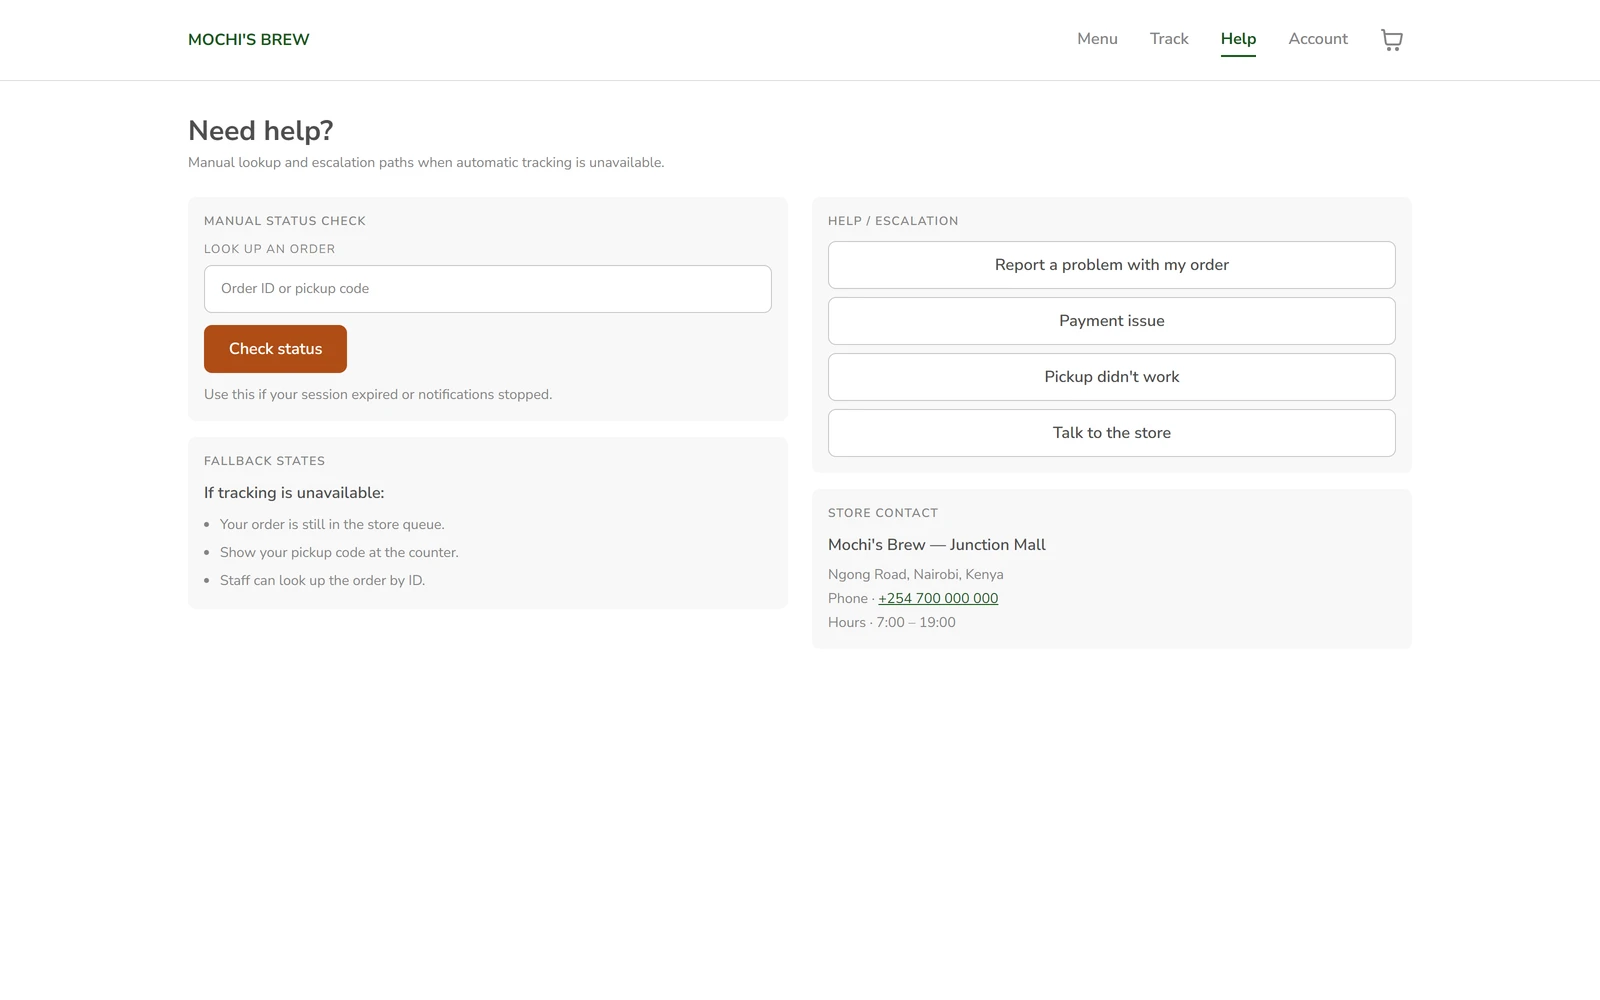
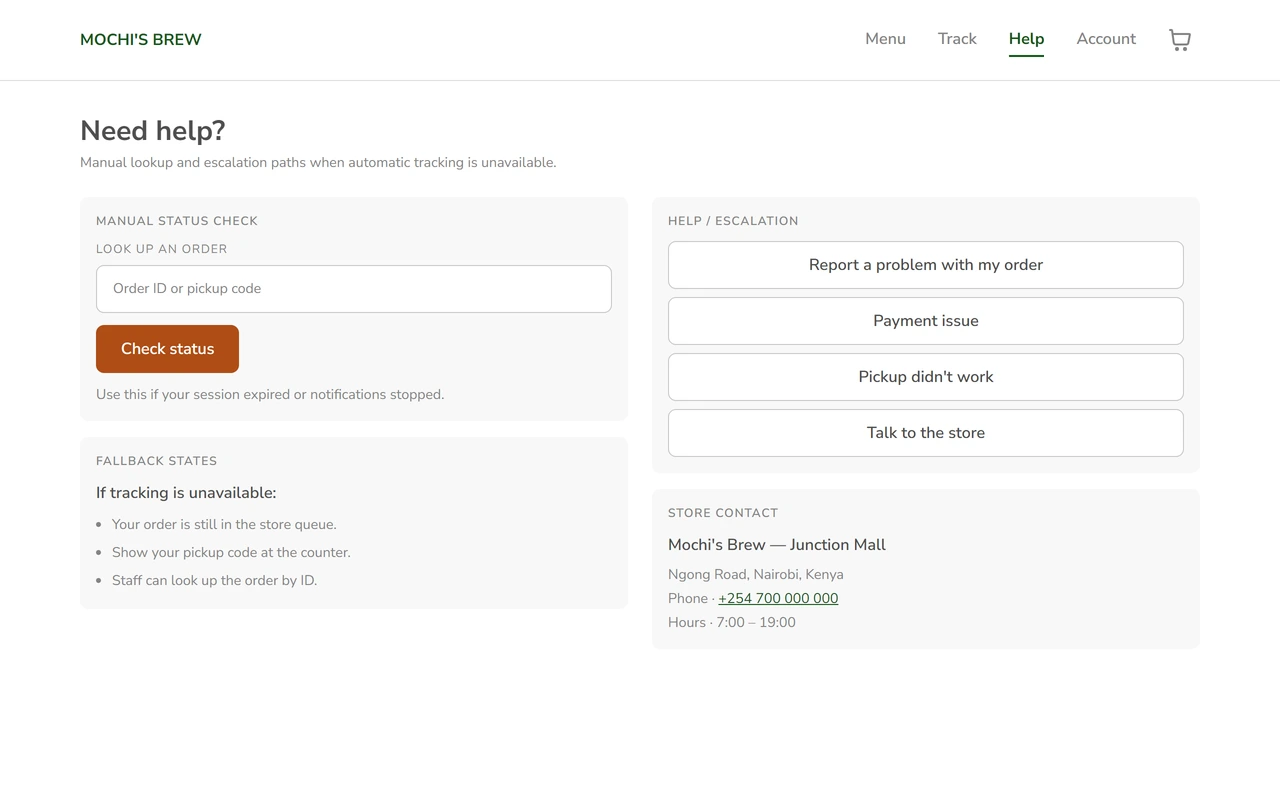
Show a screen at a size it can be read at
The flow screens were captured at 1600 and shown at 1000, so a 14px label
arrived as 9px. They are recaptured at the size they are displayed at, and the
inset is tightened, so the ground reads as a border rather than a margin.

Frame takes a ratio and the side it measures from. A landscape frame fills its
column and lets the cap trim its height; a portrait one is the other way
round, which is what the phone flow needed to stop being a phone lying down in
a landscape box.

A board taller than its card is no longer shrunk until it cannot be read. It
fills the width and pans instead: a beat at the top, a slow linear travel down
at reading pace, a beat at the foot, then the next board.

diff --git a/src/routes/work.mochis.tsx b/src/routes/work.mochis.tsx
@@ -93,87 +93,24 @@ const learnt = [
 
 /* The flow as charted: home, through the gate, to the menu and the product,
    reviewed, and only then the guest choice that sits immediately before
-   payment. Tracking follows payment, and support follows tracking. */
+   payment. Tracking follows payment, and support follows tracking.
+
+   Captured at the size they are shown at, so the screens read rather than
+   being shrunk into the card. A page longer than the card keeps the card's
+   width and scrolls. */
+const DESK = { width: 1280, height: 800 };
+
 const flow: WalkthroughStep[] = [
-  {
-    label: "Home",
-    src: flowHome,
-    width: 1600,
-    height: 1000,
-    hotspot: { x: 19.3, y: 74.3 },
-    alt: "The Mochi's Brew home screen, with an order waiting to be started",
-  },
-  {
-    label: "Location Gate",
-    src: flowLocation,
-    width: 1600,
-    height: 1000,
-    hotspot: { x: 72.7, y: 32.7 },
-    alt: "Where are you ordering from: permission, manual entry, the radius check and store hours",
-  },
-  {
-    label: "Within Range",
-    src: flowLocationOk,
-    width: 1600,
-    height: 1000,
-    hotspot: { x: 72.7, y: 35.3 },
-    alt: "You are within pickup range: the shop pinned inside its 20km service radius, with the way through to the menu",
-  },
-  {
-    label: "Browse Menu",
-    src: flowMenu,
-    width: 1600,
-    height: 1000,
-    hotspot: { x: 35.5, y: 36.5 },
-    alt: "The menu: categories, search, product cards and availability",
-  },
-  {
-    label: "Product Details",
-    src: flowProduct,
-    width: 1600,
-    height: 1431,
-    hotspot: { x: 55.3, y: 37 },
-    alt: "A cappuccino: core configuration, customisation, fulfilment timing and product information",
-  },
-  {
-    label: "Review Order",
-    src: flowReview,
-    width: 1600,
-    height: 1133,
-    hotspot: { x: 76, y: 37.2 },
-    alt: "Review your order: the summary, the item breakdown, the price and the ways back out of it",
-  },
-  {
-    label: "Guest Checkout",
-    src: flowGuest,
-    width: 1600,
-    height: 1133,
-    hotspot: { x: 50, y: 52.1 },
-    alt: "How do you want to continue: carry on as a guest, or sign in",
-  },
-  {
-    label: "Payment",
-    src: flowPayment,
-    width: 1600,
-    height: 1115,
-    hotspot: { x: 76, y: 47.5 },
-    alt: "Payment: method selection, and the validation run at submission",
-  },
-  {
-    label: "Track Order",
-    src: flowTrack,
-    width: 1600,
-    height: 1000,
-    hotspot: { x: 76, y: 54.5 },
-    alt: "Order status: order ID, pickup code, queue status, milestone states and notifications",
-  },
-  {
-    label: "Support",
-    src: flowSupport,
-    width: 1600,
-    height: 1000,
-    alt: "Need help: fallback states, a manual status check, and a way to escalate",
-  },
+  { label: "Home", src: flowHome, ...DESK, hotspot: { x: 15.6, y: 77.3 }, alt: "The Mochi's Brew home screen, with an order waiting to be started" },
+  { label: "Location Gate", src: flowLocation, width: 1280, height: 885, hotspot: { x: 76, y: 36.9 }, alt: "Where are you ordering from: permission, manual entry, the radius check and store hours" },
+  { label: "Within Range", src: flowLocationOk, width: 1280, height: 885, hotspot: { x: 76, y: 39.9 }, alt: "You are within pickup range, with the way through to the menu" },
+  { label: "Browse Menu", src: flowMenu, ...DESK, hotspot: { x: 34.6, y: 44.6 }, alt: "The menu: categories, search, product cards and availability" },
+  { label: "Product Details", src: flowProduct, width: 1280, height: 1431, hotspot: { x: 55.2, y: 37 }, tall: true, alt: "A cappuccino: core configuration, customisation, fulfilment timing and product information" },
+  { label: "Review Order", src: flowReview, width: 1280, height: 1146, hotspot: { x: 79.8, y: 36.8 }, tall: true, alt: "Review your order: the summary, the item breakdown, the price and the ways back out of it" },
+  { label: "Guest Checkout", src: flowGuest, width: 1280, height: 1146, hotspot: { x: 50, y: 52.1 }, tall: true, alt: "How do you want to continue: carry on as a guest, or sign in" },
+  { label: "Payment", src: flowPayment, width: 1280, height: 1115, hotspot: { x: 79.8, y: 47.5 }, tall: true, alt: "Payment: method selection, and the validation run at submission" },
+  { label: "Track Order", src: flowTrack, ...DESK, hotspot: { x: 79.8, y: 68.1 }, alt: "Order status: order ID, pickup code, queue status, milestone states and notifications" },
+  { label: "Support", src: flowSupport, ...DESK, alt: "Need help: fallback states, a manual status check, and a way to escalate" },
 ];
 
 /* The same order on the phone it was designed for. */
@@ -191,15 +128,16 @@ const phoneFlow: WalkthroughStep[] = [
   { label: "Track Order", src: phoneTrack, ...PHONE, alt: "Order status on a phone, with the pickup code" },
 ];
 
-/* The system the flow is drawn from. */
+/* The system the flow is drawn from. A board taller than the card is shown at
+   a size that can be read and panned, rather than shrunk until it cannot. */
 const system: WalkthroughStep[] = [
   { label: "Colour", src: systemColour, width: 1600, height: 636, alt: "The colour palettes, each ramp from 50 to 900" },
-  { label: "Typography", src: systemTypography, width: 1600, height: 3607, alt: "The type scale and its roles" },
-  { label: "Tokens", src: systemTokens, width: 1600, height: 2153, alt: "The tokens the components read from" },
+  { label: "Typography", src: systemTypography, width: 1600, height: 3607, tall: true, alt: "The type scale and its roles" },
+  { label: "Tokens", src: systemTokens, width: 1600, height: 2153, tall: true, alt: "The tokens the components read from" },
   { label: "Grid", src: systemGrid, width: 1600, height: 944, alt: "The grid the layouts sit on" },
-  { label: "Spacing", src: systemSpacing, width: 1600, height: 1502, alt: "The spacing scale" },
-  { label: "Radius", src: systemRadius, width: 1600, height: 1502, alt: "The corner radii" },
-  { label: "Icons", src: systemIcons, width: 1600, height: 2644, alt: "The icon set" },
+  { label: "Spacing", src: systemSpacing, width: 1600, height: 1502, tall: true, alt: "The spacing scale" },
+  { label: "Radius", src: systemRadius, width: 1600, height: 1502, tall: true, alt: "The corner radii" },
+  { label: "Icons", src: systemIcons, width: 1600, height: 2644, tall: true, alt: "The icon set" },
 ];
 
 const meta: MetaRow[] = [
@@ -215,7 +153,7 @@ function MochisBrew() {
       title="Mochi's Brew"
       meta={meta}
       deck="Designing a pickup ordering flow for Kenyan coffee shops. A service flow for on the go customers."
-      media={<Walkthrough steps={flow} />}
+      media={<Walkthrough steps={flow} ratio="1280 / 800" />}
     >
       <CaseStudySection columns={1}>
         {/* Two sides: what the research was, on the left; what it turned up and
@@ -291,7 +229,7 @@ function MochisBrew() {
             </Prose>
           </div>
 
-          <Walkthrough steps={phoneFlow} size="half" />
+          <Walkthrough steps={phoneFlow} size="half" ratio="430 / 932" fit="height" />
         </div>
       </CaseStudySection>
 

diff --git a/src/components/Walkthrough.tsx b/src/components/Walkthrough.tsx
@@ -20,14 +20,27 @@ import { cn } from "@/lib/utils";
  * playback scrolls it to the button before pressing.
  */
 
-/* How much of the card the screen takes up. */
-const SCREEN_SIZE = "80%";
+/* How much of the card the screen takes up. Close to all of it: a screen set
+   much smaller than this stops being readable. */
+const SCREEN_SIZE = "94%";
 
 /* One beat of playback, in milliseconds. */
 const DWELL = 1900;
 const REACH = 750;
 const PRESS = 420;
 const STEP_MS = DWELL + REACH + PRESS;
+
+/* A board taller than its card is not shrunk to fit, because that is what
+   makes it unreadable. It is shown at a size that can be read and panned
+   instead: a beat to take in the top, a slow travel down at a reading pace,
+   and a beat at the foot before the next board. */
+const READ_TOP = 2200;
+const READ_FOOT = 1400;
+const PAN_PX_PER_SECOND = 110;
+const PAN_MAX = 16000;
+
+const panDuration = (overflow: number) =>
+  Math.min(PAN_MAX, Math.round((overflow / PAN_PX_PER_SECOND) * 1000));
 
 /* Where the pointer waits before it sets off. */
 const REST = { x: 44, y: 46 };
@@ -53,11 +66,18 @@ export type WalkthroughStep = {
 export function Walkthrough({
   steps,
   size = "full",
+  ratio,
+  fit,
   guided = true,
 }: {
   steps: WalkthroughStep[];
   /** Passed through to the frame: full column width, or one of a two-up pair. */
   size?: FrameSize;
+  /** The frame's shape, for a flow that is not the site's usual landscape:
+   *  a phone wants a portrait card. */
+  ratio?: string;
+  /** Passed through to the frame: a portrait flow measures from its height. */
+  fit?: "width" | "height";
   /** False turns the pointer off and leaves the screens simply turning over. */
   guided?: boolean;
 }) {
@@ -100,19 +120,49 @@ export function Walkthrough({
     return () => observer.disconnect();
   }, []);
 
-  /* The beats of one step: settle, reach for the button, press, move on. */
+  /* The beats of one step: settle, reach for the button, press, move on.
+     A carousel has no button to press, so a board that overflows its card is
+     panned instead, slowly enough to be read. */
   useEffect(() => {
     if (!playing || !onScreen) return;
     if (window.matchMedia("(prefers-reduced-motion: reduce)").matches) return;
 
     setPhase("enter");
+    const advance = () => setActive((i) => (i + 1) % steps.length);
+
     if (!guided) {
-      const hold = window.setTimeout(
-        () => setActive((i) => (i + 1) % steps.length),
-        STEP_MS,
+      const el = frame.current;
+      const overflow = el ? el.scrollHeight - el.clientHeight : 0;
+      if (overflow <= 4) {
+        const hold = window.setTimeout(advance, STEP_MS);
+        return () => window.clearTimeout(hold);
+      }
+
+      const travel = panDuration(overflow);
+      let raf = 0;
+      let start = 0;
+      const timers: number[] = [];
+
+      timers.push(
+        window.setTimeout(() => {
+          /* Linear, because the eye is reading rather than being swept. */
+          const tick = (now: number) => {
+            if (!start) start = now;
+            const t = Math.min(1, (now - start) / travel);
+            if (frame.current) frame.current.scrollTop = overflow * t;
+            if (t < 1) raf = window.requestAnimationFrame(tick);
+          };
+          raf = window.requestAnimationFrame(tick);
+        }, READ_TOP),
       );
-      return () => window.clearTimeout(hold);
+      timers.push(window.setTimeout(advance, READ_TOP + travel + READ_FOOT));
+
+      return () => {
+        timers.forEach(window.clearTimeout);
+        window.cancelAnimationFrame(raf);
+      };
     }
+
     const timers = [
       window.setTimeout(() => {
         setPhase("reach");
@@ -123,7 +173,7 @@ export function Walkthrough({
         el.scrollTo({ top: Math.max(0, target - el.clientHeight * 0.7), behavior: "smooth" });
       }, DWELL),
       window.setTimeout(() => setPhase("press"), DWELL + REACH),
-      window.setTimeout(() => setActive((i) => (i + 1) % steps.length), STEP_MS),
+      window.setTimeout(advance, STEP_MS),
     ];
     return () => timers.forEach(window.clearTimeout);
   }, [active, playing, onScreen, guided, steps.length, step.hotspot?.y]);
@@ -147,6 +197,8 @@ export function Walkthrough({
     <figure onKeyDown={onKeyDown}>
       <Frame
         size={size}
+        ratio={ratio}
+        fit={fit}
         id={`${id}-panel`}
         ref={frame}
         role="group"

diff --git a/src/components/primitives.tsx b/src/components/primitives.tsx
@@ -132,8 +132,9 @@ export function EnclosureCell({ className, children }: { className?: string; chi
  * the viewport, so a reader takes a whole frame in without scrolling.
  *
  * Two sizes: `full` spans the content column, `half` sits in a two-up grid and
- * so needs a smaller share of the screen. Anything else about it — the ratio,
- * the ground, the corner — is one edit here.
+ * so needs a smaller share of the screen. A frame holding something of another
+ * shape entirely — a phone, say — can name its own ratio; everything else about
+ * it stays one edit here.
  */
 export const FRAME_RATIO = "4 / 3";
 
@@ -143,6 +144,8 @@ export type FrameSize = keyof typeof FRAME_MAX_HEIGHT;
 
 export function Frame({
   size = "full",
+  ratio = FRAME_RATIO,
+  fit = "width",
   className,
   style,
   children,
@@ -150,6 +153,14 @@ export function Frame({
   ...rest
 }: {
   size?: FrameSize;
+  /** The frame's shape. Defaults to the one the whole site uses. */
+  ratio?: string;
+  /**
+   * Which side the frame takes its measure from. A landscape frame fills the
+   * column and lets the cap trim its height; a portrait one is the other way
+   * round, since filling the column would make a phone taller than the page.
+   */
+  fit?: "width" | "height";
   className?: string;
   children?: ReactNode;
   /** So a caller can measure or scroll the frame it owns. */
@@ -158,8 +169,16 @@ export function Frame({
   return (
     <div
       ref={ref}
-      className={cn("w-full overflow-hidden rounded-lg bg-ground", className)}
-      style={{ aspectRatio: FRAME_RATIO, maxHeight: FRAME_MAX_HEIGHT[size], ...style }}
+      className={cn(
+        "overflow-hidden rounded-lg bg-ground",
+        fit === "width" ? "w-full" : "mx-auto max-w-full",
+        className,
+      )}
+      style={
+        fit === "width"
+          ? { aspectRatio: ratio, maxHeight: FRAME_MAX_HEIGHT[size], ...style }
+          : { aspectRatio: ratio, height: FRAME_MAX_HEIGHT[size], ...style }
+      }
       {...rest}
     >
       {children}
